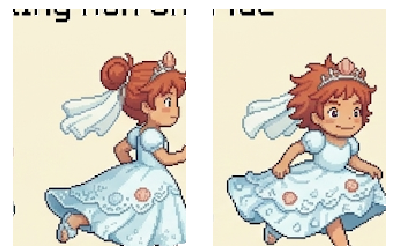
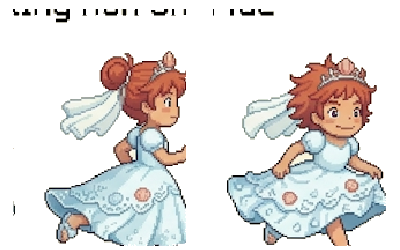
feat(wedding-runner): 신부 달리기 도무송 재처리 + 슬라이드 기능 제거
- bride-run.png 크림색 배경(#f7f0d6) 크롤링 flood-fill 로 전부 투명화
  (이전 외곽만 투명 처리되어 캐릭터 주변 사각형 크림색 배경이 남아있었음)
- 슬라이드/앉기 조작 완전 제거: state.sliding, slideUntil, trySlide, SLIDE_DURATION, keydown-DOWN
- 입력 반전(confused) 관련 코드 제거 — 슬라이드 없는 상태에서 의미 없음
- 조작 안내 문구 "아래쪽 탭: 슬라이드" 제거, 탭/Space/↑ 모두 점프로 단일화

diff --git a/src/components/wedding-runner/PhaserGame.tsx b/src/components/wedding-runner/PhaserGame.tsx
@@ -69,10 +69,7 @@ type RunnerState = {
   elapsed: number;
   velocityY: number;
   isJumping: boolean;
-  sliding: boolean;
-  slideUntil: number;
   invincibleUntil: number;
-  confusedUntil: number;
   // 신부 한정 — 피격/아이템 획득 시 일시적 표정 변경 타이머
   hurtUntil: number;
   happyUntil: number;
@@ -84,7 +81,6 @@ type RunnerState = {
 
 const GRAVITY = 2200;
 const JUMP_V = -760;
-const SLIDE_DURATION = 500;
 
 // 아이템/장애물 내부 키 → 실제 에셋 파일
 const ITEM_TEXTURE: Record<ItemKind, string> = {
@@ -159,10 +155,7 @@ export default function PhaserGame({
         elapsed: 0,
         velocityY: 0,
         isJumping: false,
-        sliding: false,
-        slideUntil: 0,
         invincibleUntil: 0,
-        confusedUntil: 0,
         hurtUntil: 0,
         happyUntil: 0,
         scrollSpeed: 260,
@@ -247,19 +240,9 @@ export default function PhaserGame({
       }
 
       function tryJump() {
-        if (state.isJumping || state.sliding) return;
+        if (state.isJumping) return;
         state.velocityY = JUMP_V;
         state.isJumping = true;
-      }
-
-      function trySlide(scene: Phaser.Scene) {
-        if (state.isJumping || state.sliding) return;
-        state.sliding = true;
-        state.slideUntil = scene.time.now + SLIDE_DURATION;
-        state.playerH = 30;
-        const slideH = 38;
-        state.player!.setDisplaySize(56, slideH);
-        state.player!.y = GROUND_Y - slideH / 2;
       }
 
       function spawnItem(scene: Phaser.Scene) {
@@ -393,20 +376,12 @@ export default function PhaserGame({
           state.hudCombo = scene.add.text(16, 40, "", hudStyle);
           state.hudStatus = scene.add.text(VIEW_W / 2, 40, "", { ...hudStyle, fontSize: "14px", color: "#c85476" }).setOrigin(0.5, 0);
 
-          scene.input.on("pointerdown", (p: Phaser.Input.Pointer) => {
+          scene.input.on("pointerdown", () => {
             if (state.finished) return;
-            const inverted = scene.time.now < (state.confusedUntil ?? 0);
-            if (p.y > VIEW_H * 0.7) {
-              if (inverted) tryJump();
-              else trySlide(scene);
-            } else {
-              if (inverted) trySlide(scene);
-              else tryJump();
-            }
+            tryJump();
           });
           scene.input.keyboard?.on("keydown-SPACE", () => tryJump());
           scene.input.keyboard?.on("keydown-UP", () => tryJump());
-          scene.input.keyboard?.on("keydown-DOWN", () => trySlide(scene));
         },
         update(this: Phaser.Scene, _t: number, dt: number) {
           const scene = this;
@@ -441,12 +416,7 @@ export default function PhaserGame({
               state.player!.setTexture("bride-jump");
               state.player!.setDisplaySize(state.playerW!, state.playerH!);
             }
-          } else if (state.sliding && scene.time.now > state.slideUntil!) {
-            state.sliding = false;
-            state.playerH = baseH;
-            state.player!.setDisplaySize(56, baseH);
-            state.player!.y = baseY;
-          } else if (!state.sliding) {
+          } else {
             if (playerType === "bride") {
               // 신부: 피격/행복 우선, 그외 달리기 2프레임 교차 (120ms)
               const now = scene.time.now;
@@ -472,9 +442,7 @@ export default function PhaserGame({
             state.player!.alpha = 1;
           }
 
-          if (scene.time.now < (state.confusedUntil ?? 0)) {
-            state.hudStatus!.setText("혼란! 입력이 반전됩니다");
-          } else if (scene.time.now < (state.invincibleUntil ?? 0)) {
+          if (scene.time.now < (state.invincibleUntil ?? 0)) {
             state.hudStatus!.setText("무적!");
           } else {
             state.hudStatus!.setText("");
@@ -491,8 +459,8 @@ export default function PhaserGame({
             state.nextObstacleAt = state.elapsed + gap + Math.random() * 350;
           }
 
-          // hit box는 시각 크기보다 살짝 작게 — 캐릭터 폭 56→40, 슬라이드 시 30
-          const hitH = state.sliding ? 30 : 70;
+          // hit box는 시각 크기보다 살짝 작게 — 캐릭터 폭 56→40
+          const hitH = 70;
           const hitW = 40;
           for (const it of state.itemsPool!) {
             if (!it.alive) continue;
@@ -553,7 +521,6 @@ export default function PhaserGame({
                 if (invincible) continue;
                 state.scoreValue! -= OBSTACLE_PENALTY.flower;
                 state.combo = 0;
-                state.confusedUntil = scene.time.now + 2000;
                 state.hurtUntil = scene.time.now + 700;
               }
             }

diff --git a/src/components/wedding-runner/WeddingRunner.tsx b/src/components/wedding-runner/WeddingRunner.tsx
@@ -344,7 +344,7 @@ export default function WeddingRunner({ onComplete }: { onComplete: () => void }
       <div className="relative">
         <PhaserGame onResult={handleResult} playerType={playerType} />
         <p className="mt-3 text-center text-[11px] tracking-widest text-[color:var(--color-mute)]">
-          화면 위쪽 탭 = 점프 · 아래쪽 탭 = 슬라이드
+          화면 탭 또는 Space/↑ = 점프
         </p>
       </div>
     );
